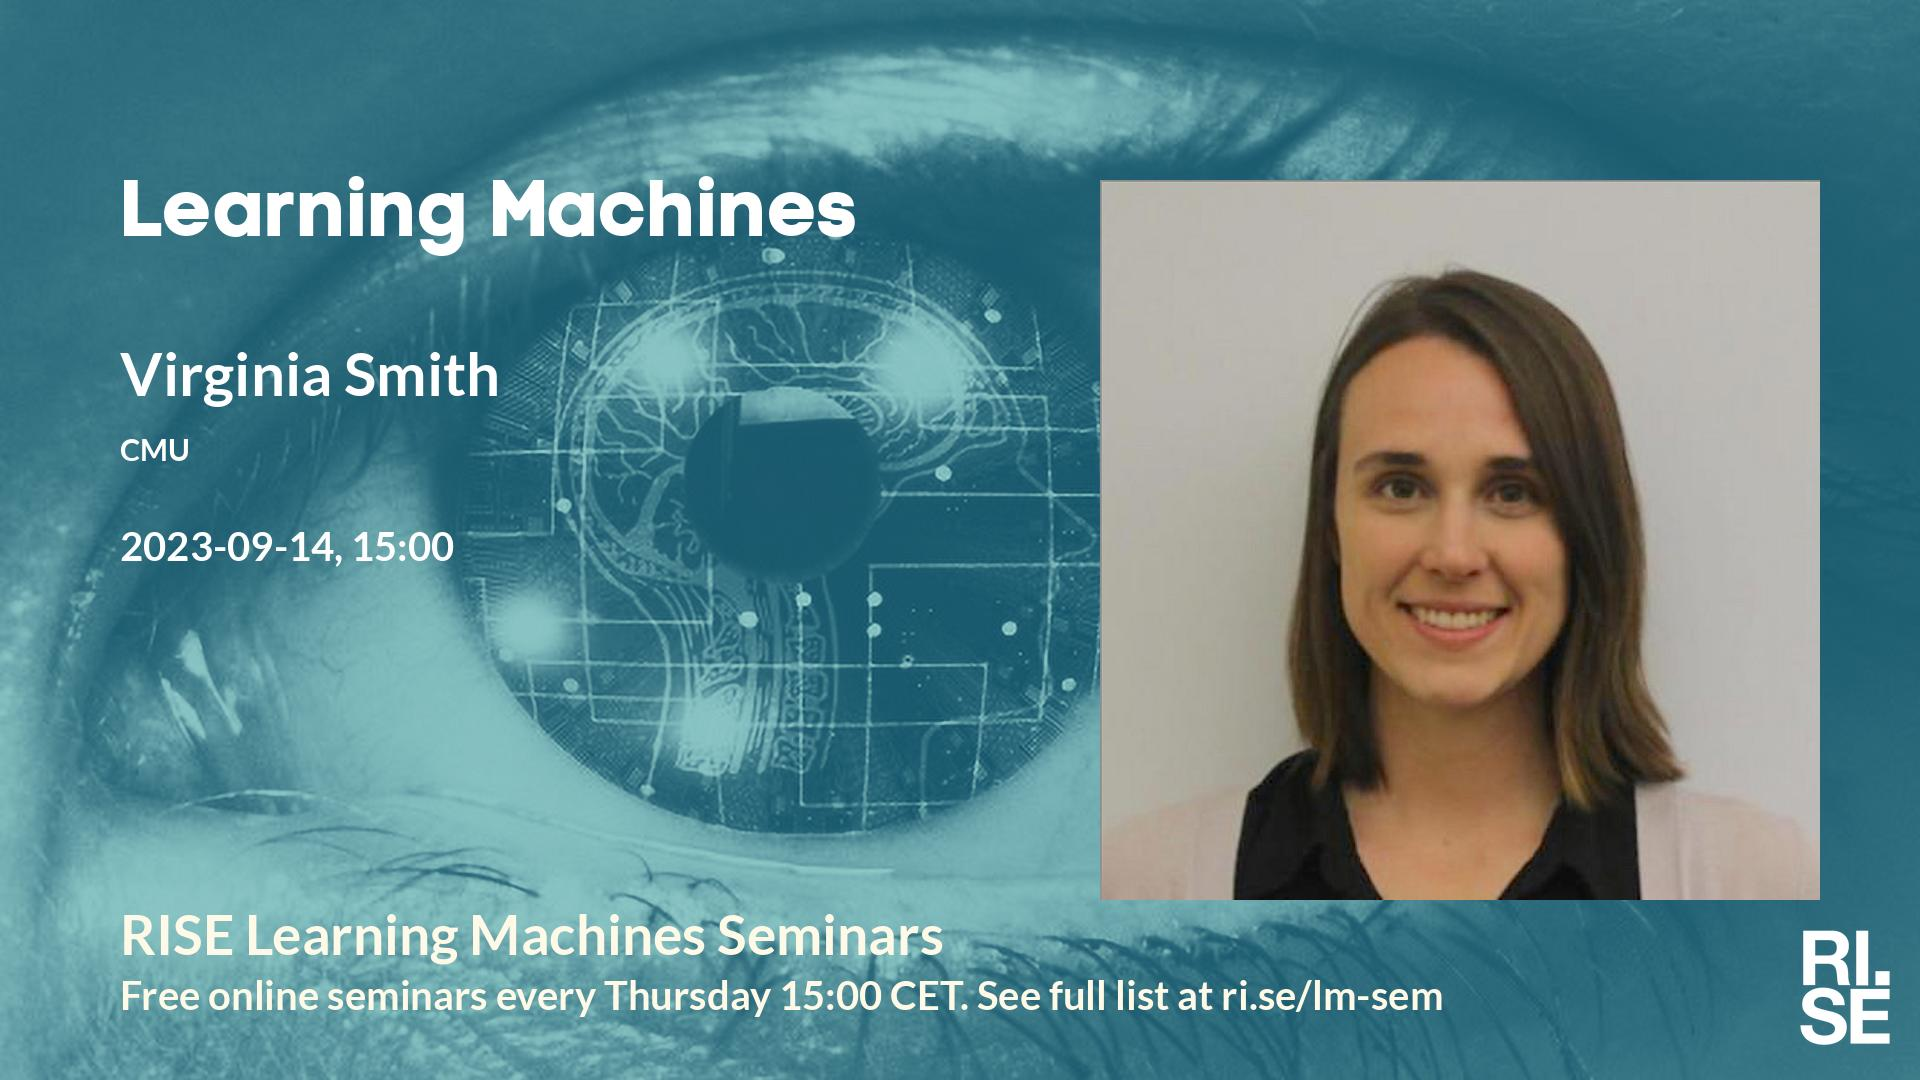
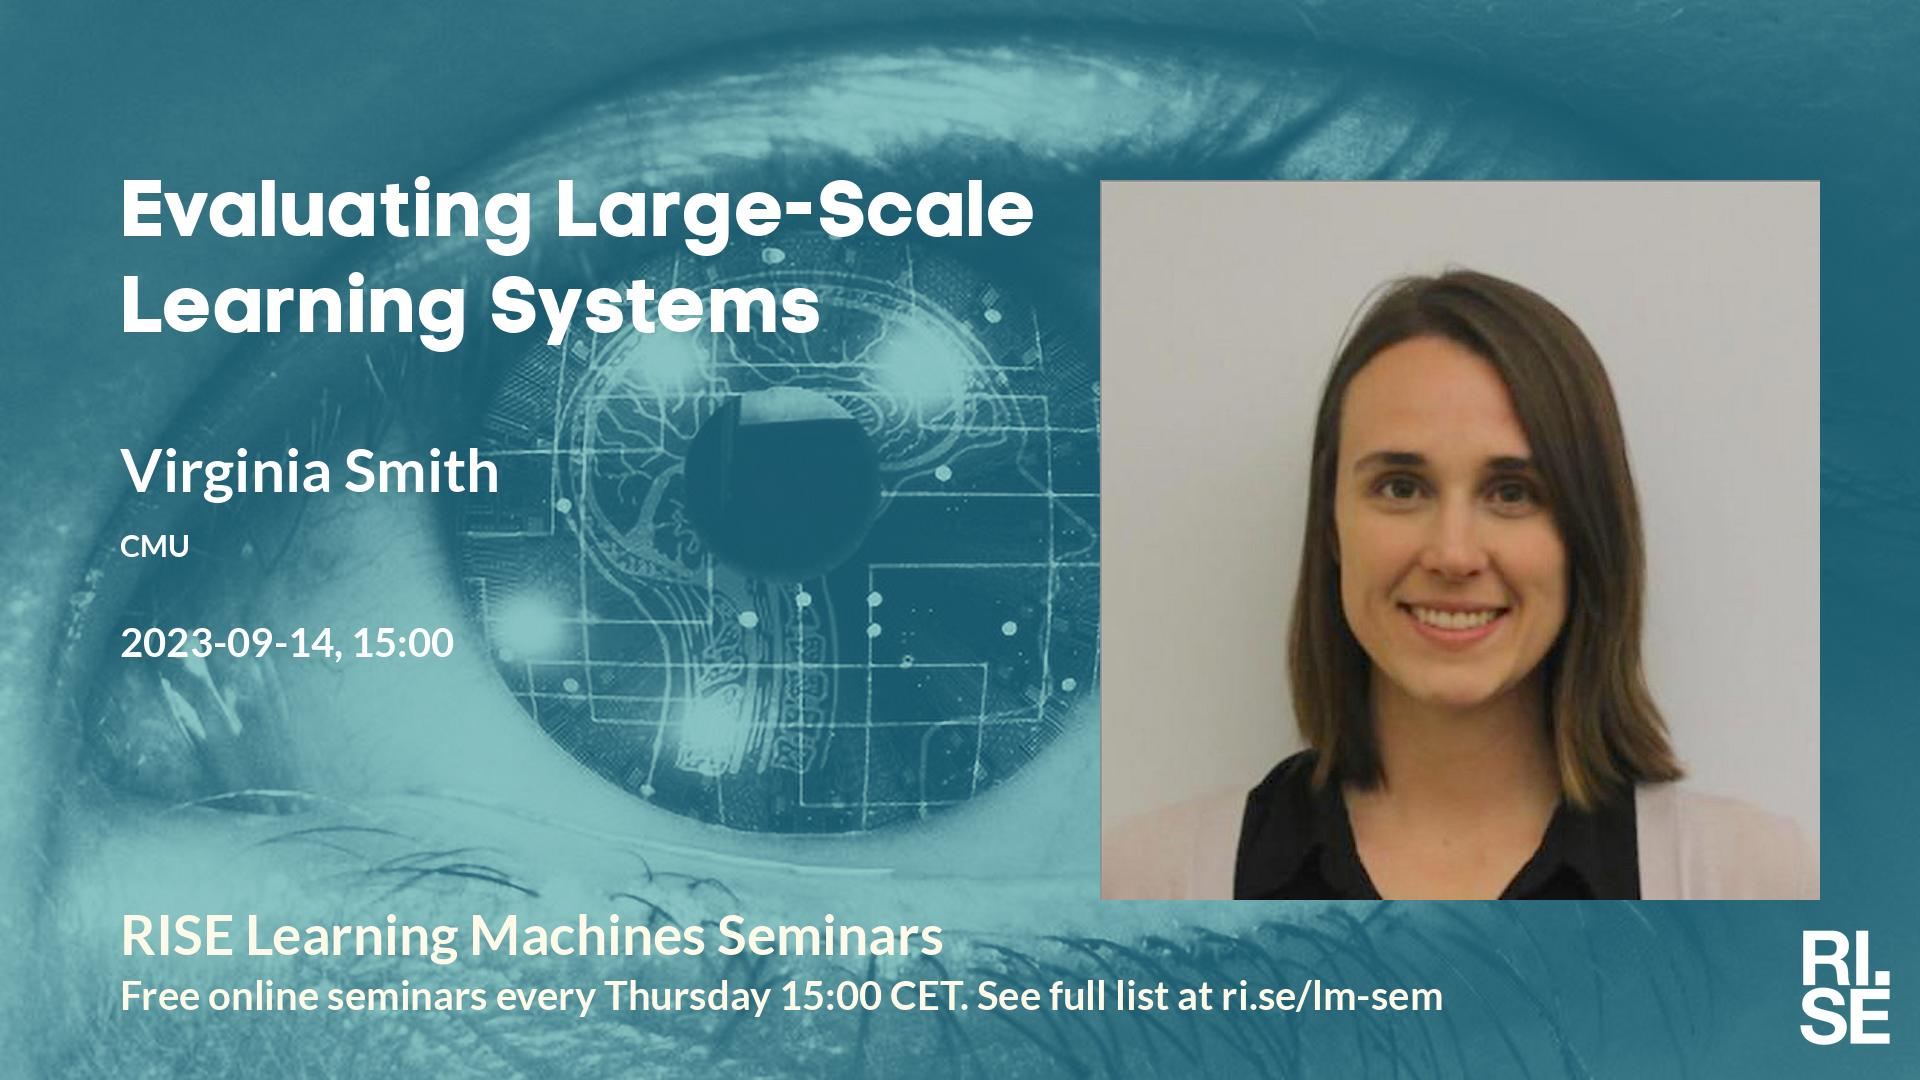
Updated plan on web site.

diff --git a/lm/index.md b/lm/index.md
@@ -5,13 +5,13 @@ metatags: "<meta name=\"robots\" content=\"noindex,nofollow\" />"
 <style type="text/css" scoped>
 td, th {border: 1px solid #ccc; padding: 0.6em;}
 table {border-collapse: collapse;}
-</style># Learning Machines Plan 2023-08-17
+</style># Learning Machines Plan 2023-08-29
 
 | date | speaker                                   | photo | shareable | meeting backdrop | youtube thumbnail | <a title="Speaker, Title, Abstract, Bio, Photo. Strikethrough means we don't have it yet.">comment</a>        |
 | ---- | ----------------------------------------- | ----- | ----- | ----- | ----- | -------------- |
 |  2023-08-31  |  [Zahra Taghiyar Renan, Halmstad University](2023-08-31.md)  |  [photo](photo-zahra-taghiyar-renan.jpg)  |  [social media ](social-media-zahra-taghiyar-renan.jpg)  |  [meeting backdrop ](meeting-backdrop-zahra-taghiyar-renan.jpg)  |  [youtube thumbnail ](youtube-thumbnail-zahra-taghiyar-renan.jpg)  |  STABP  |
 |  2023-09-07  |  [Adam Breitholz, Chalmers University of Technology](2023-09-07.md)  |  [photo](photo-adam-breitholz.jpg)  |  [social media ](social-media-adam-breitholz.jpg)  |  [meeting backdrop ](meeting-backdrop-adam-breitholz.jpg)  |  [youtube thumbnail ](youtube-thumbnail-adam-breitholz.jpg)  |  STABP  |
-|  2023-09-14  |  [Virginia Smith, CMU](2023-09-14.md)  |  [photo](photo-virginia-smith.jpg)  |  [social media ](social-media-virginia-smith.jpg)  |  [meeting backdrop ](meeting-backdrop-virginia-smith.jpg)  |  [youtube thumbnail ](youtube-thumbnail-virginia-smith.jpg)  |  S~~TAB~~P  |
+|  2023-09-14  |  [Virginia Smith, CMU](2023-09-14.md)  |  [photo](photo-virginia-smith.jpg)  |  [social media ](social-media-virginia-smith.jpg)  |  [meeting backdrop ](meeting-backdrop-virginia-smith.jpg)  |  [youtube thumbnail ](youtube-thumbnail-virginia-smith.jpg)  |  STABP  |
 |  2023-09-21  |  [Nico Lang, University of Copenhagen](2023-09-21.md)  |  [photo](photo-nico-lang.jpg)  |  [social media ](social-media-nico-lang.jpg)  |  [meeting backdrop ](meeting-backdrop-nico-lang.jpg)  |  [youtube thumbnail ](youtube-thumbnail-nico-lang.jpg)  |  STABP  |
 |  2023-09-28  |  [Johan Östman, AI Sweden](2023-09-28.md)  |  [photo](photo-johan-ostman.jpg)  |  [social media ](social-media-johan-ostman.jpg)  |  [meeting backdrop ](meeting-backdrop-johan-ostman.jpg)  |  [youtube thumbnail ](youtube-thumbnail-johan-ostman.jpg)  |  S~~TAB~~P  |
 |  2023-10-05  |  [Klaus-Robert Müller, TU Berlin](2023-10-05.md)  |  [photo](photo-klaus-robert-muller.jpg)  |  [social media ](social-media-klaus-robert-muller.jpg)  |  [meeting backdrop ](meeting-backdrop-klaus-robert-muller.jpg)  |  [youtube thumbnail ](youtube-thumbnail-klaus-robert-muller.jpg)  |  STABP  |

diff --git a/lm/2023-09-14.md b/lm/2023-09-14.md
@@ -4,13 +4,13 @@ metatags: "<meta name=\"robots\" content=\"noindex,nofollow\" />"
 ---
 Welcome to this week's Learning Machines seminar.
 
-**Title:** N/A
+**Title:** Evaluating Large-Scale Learning Systems
 
 **Speaker:** Virginia Smith, CMU
 
-**Abstract:** N/A
+**Abstract:** To deploy machine learning models in practice it is critical to have a way to reliably evaluate their effectiveness. Unfortunately, the scale and complexity of modern machine learning systems makes it difficult to provide faithful evaluations and gauge performance across potential deployment scenarios. In this talk I discuss our work addressing challenges in large-scale ML evaluation. First, I explore the problem of evaluating models trained in federated networks of devices, where issues of device subsampling, heterogeneity, and privacy can introduce noise in the evaluation process and make it challenging to provide reliable evaluations. Second, I present ReLM, a system for validating and querying large language models (LLMs). Although LLMs have been touted for their ability to generate natural-sounding text, there is a growing need to evaluate the behavior of LLMs in light of issues such as data memorization, bias, and inappropriate language. ReLM poses LLM validation queries as regular expressions to enable faster and more effective LLM evaluation.
 
-**About the speaker:** N/A
+**About the speaker:** Virginia Smith is an assistant professor in the Machine Learning Department at Carnegie Mellon University. Her research spans machine learning, optimization, and distributed systems. Virginia’s current work addresses challenges related to optimization, privacy, and robustness in distributed settings to enable trustworthy federated learning at scale. Virginia’s work has been recognized by an NSF CAREER Award, MIT TR35 Innovator Award, Intel Rising Star Award, and faculty awards from Google, Apple, and Meta. Prior to CMU, Virginia was a postdoc at Stanford University and received a Ph.D. in Computer Science from UC Berkeley.
 
 **Location:** location, or online using Zoom.
 
